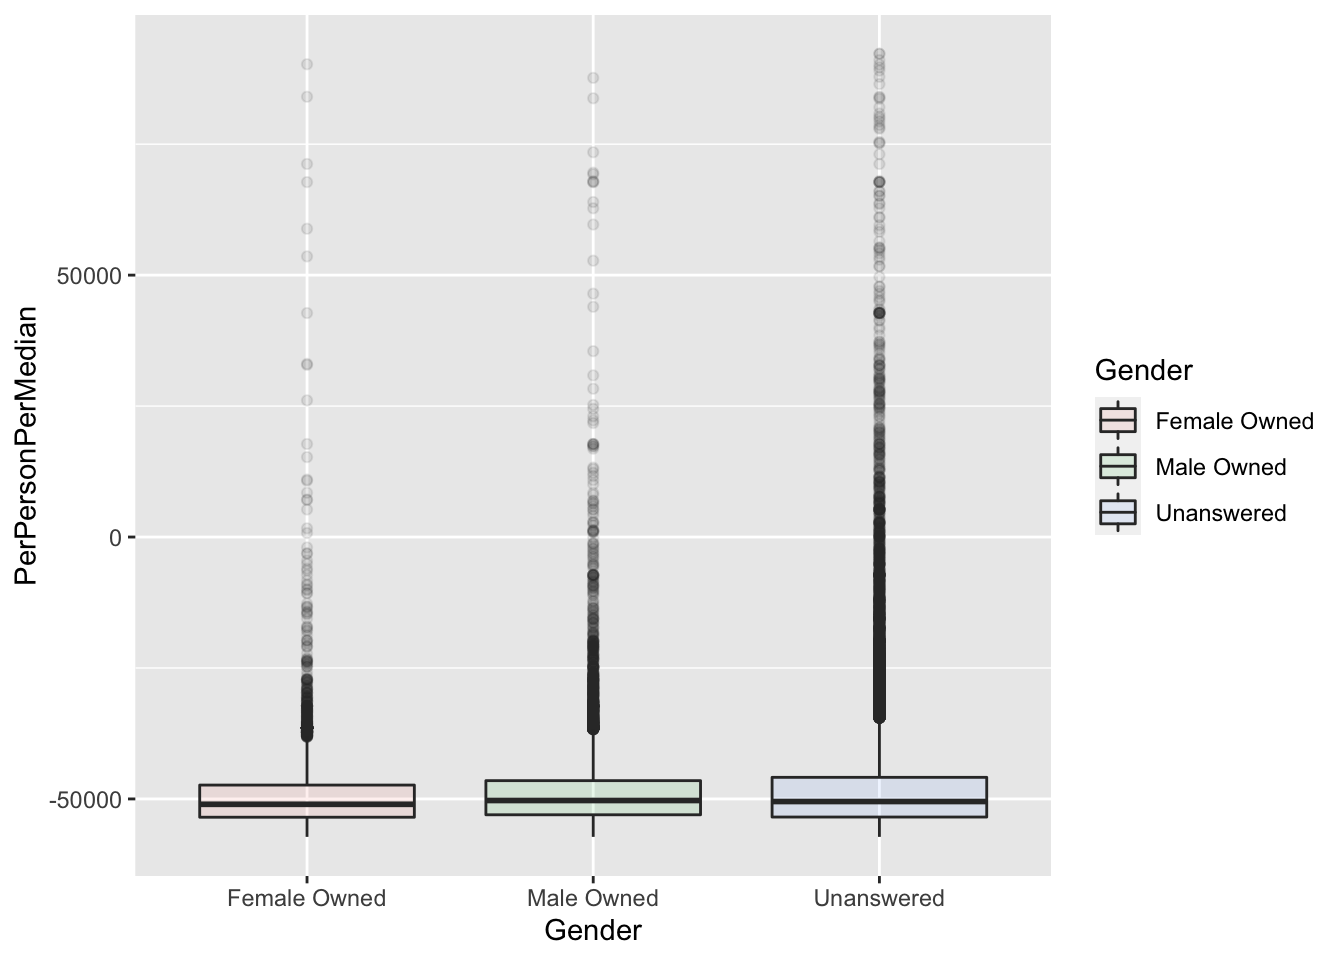
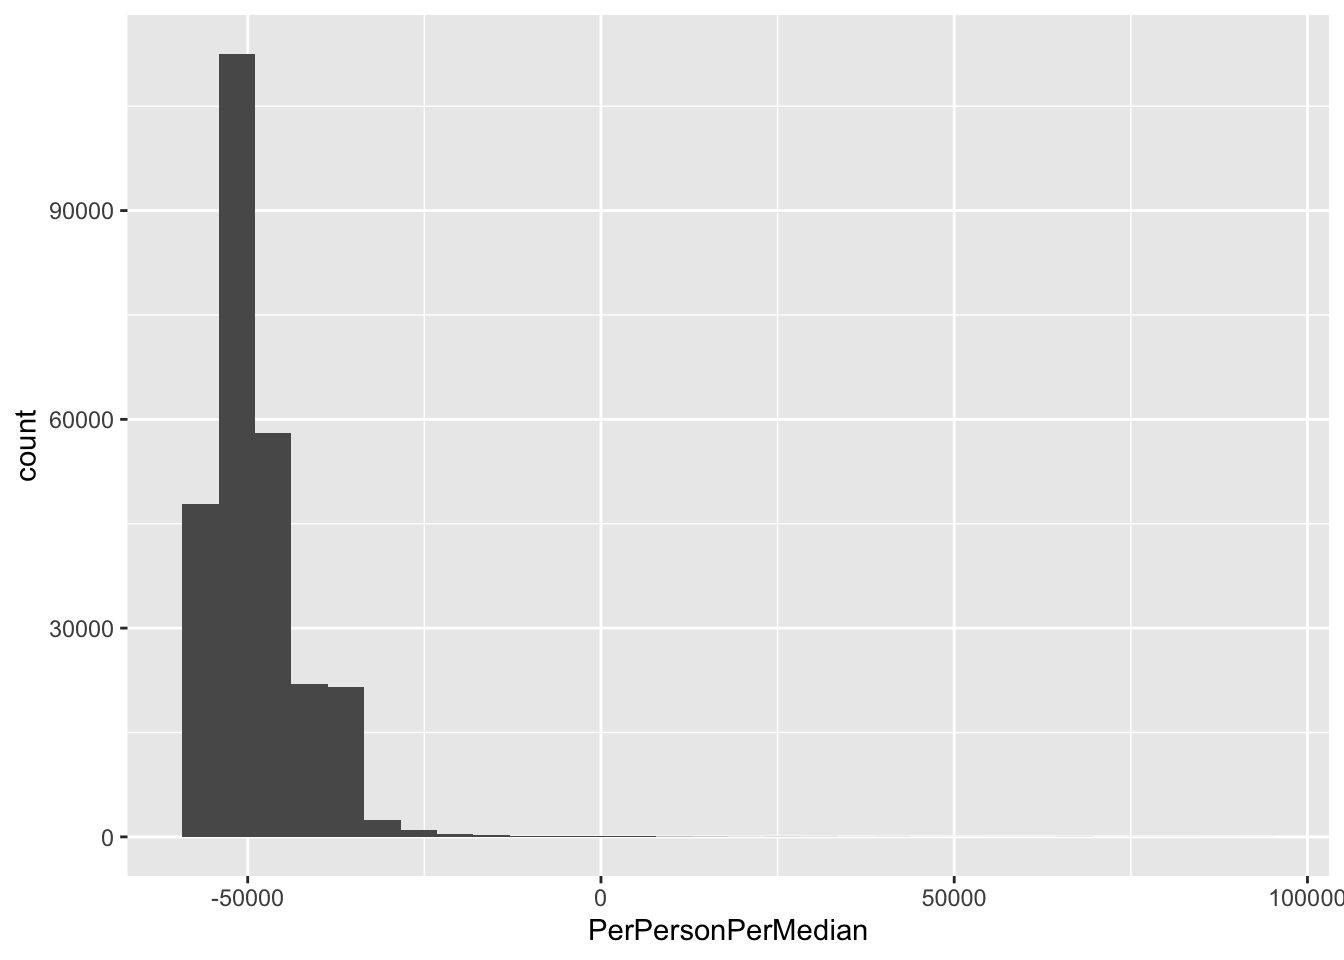
-add Dora's changes

diff --git a/docs/dora_file.html b/docs/dora_file.html
@@ -504,16 +504,16 @@ This reproducible <a href="http://rmarkdown.rstudio.com">R Markdown</a> analysis
 <div class="panel panel-default">
 <div class="panel-heading">
 <p class="panel-title">
-<a data-toggle="collapse" data-parent="#workflowr-checks" href="#strongRepositoryversionstrongahrefhttpsgithubcomhugheylabcodingsprinttree3f72bf6ce2a0150f29be0b434350445418727337targetblank3f72bf6a"> <span class="glyphicon glyphicon-ok text-success" aria-hidden="true"></span> <strong>Repository version:</strong> <a href="https://github.com/hugheylab/coding_sprint/tree/3f72bf6ce2a0150f29be0b434350445418727337" target="_blank">3f72bf6</a> </a>
+<a data-toggle="collapse" data-parent="#workflowr-checks" href="#strongRepositoryversionstrongahrefhttpsgithubcomhugheylabcodingsprinttree540af30b24086eecd124cf8cd510a4341df3c849targetblank540af30a"> <span class="glyphicon glyphicon-ok text-success" aria-hidden="true"></span> <strong>Repository version:</strong> <a href="https://github.com/hugheylab/coding_sprint/tree/540af30b24086eecd124cf8cd510a4341df3c849" target="_blank">540af30</a> </a>
 </p>
 </div>
[2 lines of base64/hex data omitted]
 <div class="panel-body">
 <p>
 Great! You are using Git for version control. Tracking code development and connecting the code version to the results is critical for reproducibility.
 </p>
 <p>
-The results in this page were generated with repository version <a href="https://github.com/hugheylab/coding_sprint/tree/3f72bf6ce2a0150f29be0b434350445418727337" target="_blank">3f72bf6</a>. See the <em>Past versions</em> tab to see a history of the changes made to the R Markdown and HTML files.
+The results in this page were generated with repository version <a href="https://github.com/hugheylab/coding_sprint/tree/540af30b24086eecd124cf8cd510a4341df3c849" target="_blank">540af30</a>. See the <em>Past versions</em> tab to see a history of the changes made to the R Markdown and HTML files.
 </p>
 <p>
 Note that you need to be careful to ensure that all relevant files for the analysis have been committed to Git prior to generating the results (you can use <code>wflow_publish</code> or <code>wflow_git_commit</code>). workflowr only checks the R Markdown file, but you know if there are other scripts or data files that it depends on. Below is the status of the Git repository when the results were generated:
@@ -559,8 +559,45 @@ fl_1 = fread(file.path(dataDir, stateDir, &#39;foia_up_to_150k_FL.csv&#39;))</co
 <pre class="r"><code>fl_1[, MonhtlyAmount := LoanAmount/12]
 fl_1[, PerPerson := LoanAmount/JobsRetained]
 fl_1[, PerPersonPerMedian := (PerPerson-57241)]</code></pre>
-<pre class="r"><code>ggplot(fl_1, aes(x = Gender, y = PerPersonPerMedian, fill = Gender)) + geom_boxplot(alpha = 0.1)</code></pre>
+<pre class="r"><code>ggplot(fl_1, aes(PerPersonPerMedian)) + geom_histogram()</code></pre>
 <p><img src="figure/dora_file.Rmd/make_plot-1.png" width="672" style="display: block; margin: auto;" /></p>
+<p>
+<button type="button" class="btn btn-default btn-xs btn-workflowr btn-workflowr-fig" data-toggle="collapse" data-target="#fig-make_plot-1">
+Past versions of make_plot-1.png
+</button>
+</p>
+<div id="fig-make_plot-1" class="collapse">
+<div class="table-responsive">
+<table class="table table-condensed table-hover">
+<thead>
+<tr>
+<th>
+Version
+</th>
+<th>
+Author
+</th>
+<th>
+Date
+</th>
+</tr>
+</thead>
+<tbody>
+<tr>
+<td>
+<a href="https://github.com/hugheylab/coding_sprint/blob/4603035dfda2d7a32d890dd1afd1a95fc7b8dc11/docs/figure/dora_file.Rmd/make_plot-1.png" target="_blank">4603035</a>
+</td>
+<td>
+doraaobodo
+</td>
+<td>
+2020-07-14
+</td>
+</tr>
+</tbody>
+</table>
+</div>
+</div>
 <br>
 <p>
 <button type="button" class="btn btn-default btn-workflowr btn-workflowr-sessioninfo" data-toggle="collapse" data-target="#workflowr-sessioninfo" style="display: block;">
@@ -593,11 +630,11 @@ loaded via a namespace (and not attached):
 [13] rlang_0.4.6      yaml_2.2.1       xfun_0.15        withr_2.2.0     
 [17] stringr_1.4.0    dplyr_0.8.5      knitr_1.29       fs_1.4.1        
 [21] vctrs_0.3.0      rprojroot_1.3-2  grid_3.6.3       tidyselect_1.1.0
-[25] glue_1.4.1       R6_2.4.1         rmarkdown_2.3    farver_2.0.3    
-[29] purrr_0.3.4      magrittr_1.5     backports_1.1.7  scales_1.1.1    
-[33] promises_1.1.1   htmltools_0.5.0  ellipsis_0.3.1   assertthat_0.2.1
-[37] colorspace_1.4-1 httpuv_1.5.4     labeling_0.3     stringi_1.4.6   
-[41] munsell_0.5.0    crayon_1.3.4    </code></pre>
+[25] glue_1.4.1       R6_2.4.1         rmarkdown_2.3    whisker_0.4     
+[29] farver_2.0.3     purrr_0.3.4      magrittr_1.5     backports_1.1.7 
+[33] scales_1.1.1     promises_1.1.1   htmltools_0.5.0  ellipsis_0.3.1  
+[37] assertthat_0.2.1 colorspace_1.4-1 httpuv_1.5.4     labeling_0.3    
+[41] stringi_1.4.6    munsell_0.5.0    crayon_1.3.4    </code></pre>
 </div>
 </div>
 
